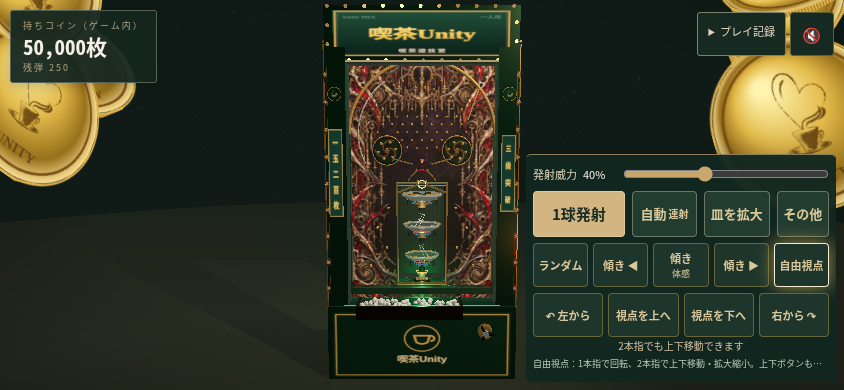
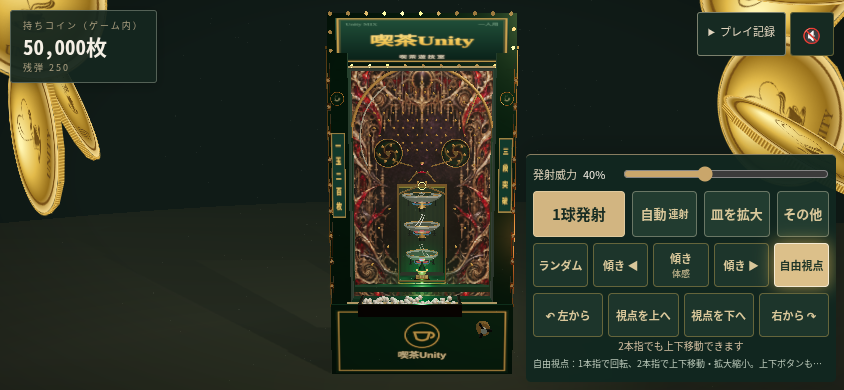
Version the updated cabinet presentation modules

diff --git a/public/silver-ring/index.html b/public/silver-ring/index.html
@@ -22,4 +22,4 @@
 <div id="over" class="overlay"><div class="ov-title-sm">コインがなくなりました</div><div class="ov-quote" id="overQuote"></div><div class="ov-quote-cn" id="overQuoteCn"></div><div id="overDebt"></div><button class="btn" id="btnRetry">もう一度遊ぶ（5万枚）</button><button class="btn dark" id="btnBorrow">練習コインを補充（10万枚）</button></div>
 <div id="paused" hidden>一時停止中です。<button class="btn" id="resumeGame">ここから再開</button></div>
 <details id="devPanel" hidden><summary>練習・検証用の操作</summary><button data-stage="0">1段目に投入</button><button data-stage="1">2段目に投入</button><button data-stage="2">3段目に投入</button><button id="devMany">5玉を同時投入</button><button id="devJack">大当たり演出</button><button id="devEmpty">玉切れ</button><p>この操作は自然発射の検証と区別します。</p></details>
-<script type="module" src="./src/main.js?v=cabinetlamps3"></script></body></html>
+<script type="module" src="./src/main.js?v=cabinetlamps4"></script></body></html>

diff --git a/public/silver-ring/src/fx.js b/public/silver-ring/src/fx.js
@@ -1,6 +1,6 @@
 import {holeGeometry} from './hole-geometry.js';
 import {updateRainbowRim} from './rainbow-rim.js?v=rainbow3';
-import {CABINET_PULSE_SECONDS,chooseCabinetPulse,sampleCabinetLampState} from './cabinet-lamp-state.js';
+import {CABINET_PULSE_SECONDS,chooseCabinetPulse,sampleCabinetLampState} from './cabinet-lamp-state.js?v=cabinetlamps4';
 // Adapted with author permission reported by the user. See ../NOTICE.txt.
 // ============================================================
 // 「沼」动态特效 —— 粒子 / 运镜 / 霓虹 / ざわざわ / 珠雨

diff --git a/public/silver-ring/src/main.js b/public/silver-ring/src/main.js
@@ -12,8 +12,8 @@ import{renderFrame}from'./render-frame.js';
 import { CFG,buildLayout } from './config.js';
 import {createRng} from './seed.js';
 import { Sim, clearPower, randPowerRange } from './physics.js';
-import { buildScene, TOUCH } from './scene.js?v=cabinetlamps3';
-import { FX } from './fx.js?v=cabinetlamps3';
+import { buildScene, TOUCH } from './scene.js?v=cabinetlamps4';
+import { FX } from './fx.js?v=cabinetlamps4';
 import { AudioEngine } from './audio.js?v=credits1';
 import { UI } from './ui.js';
 import {mountPresentation} from './presentation.js';
